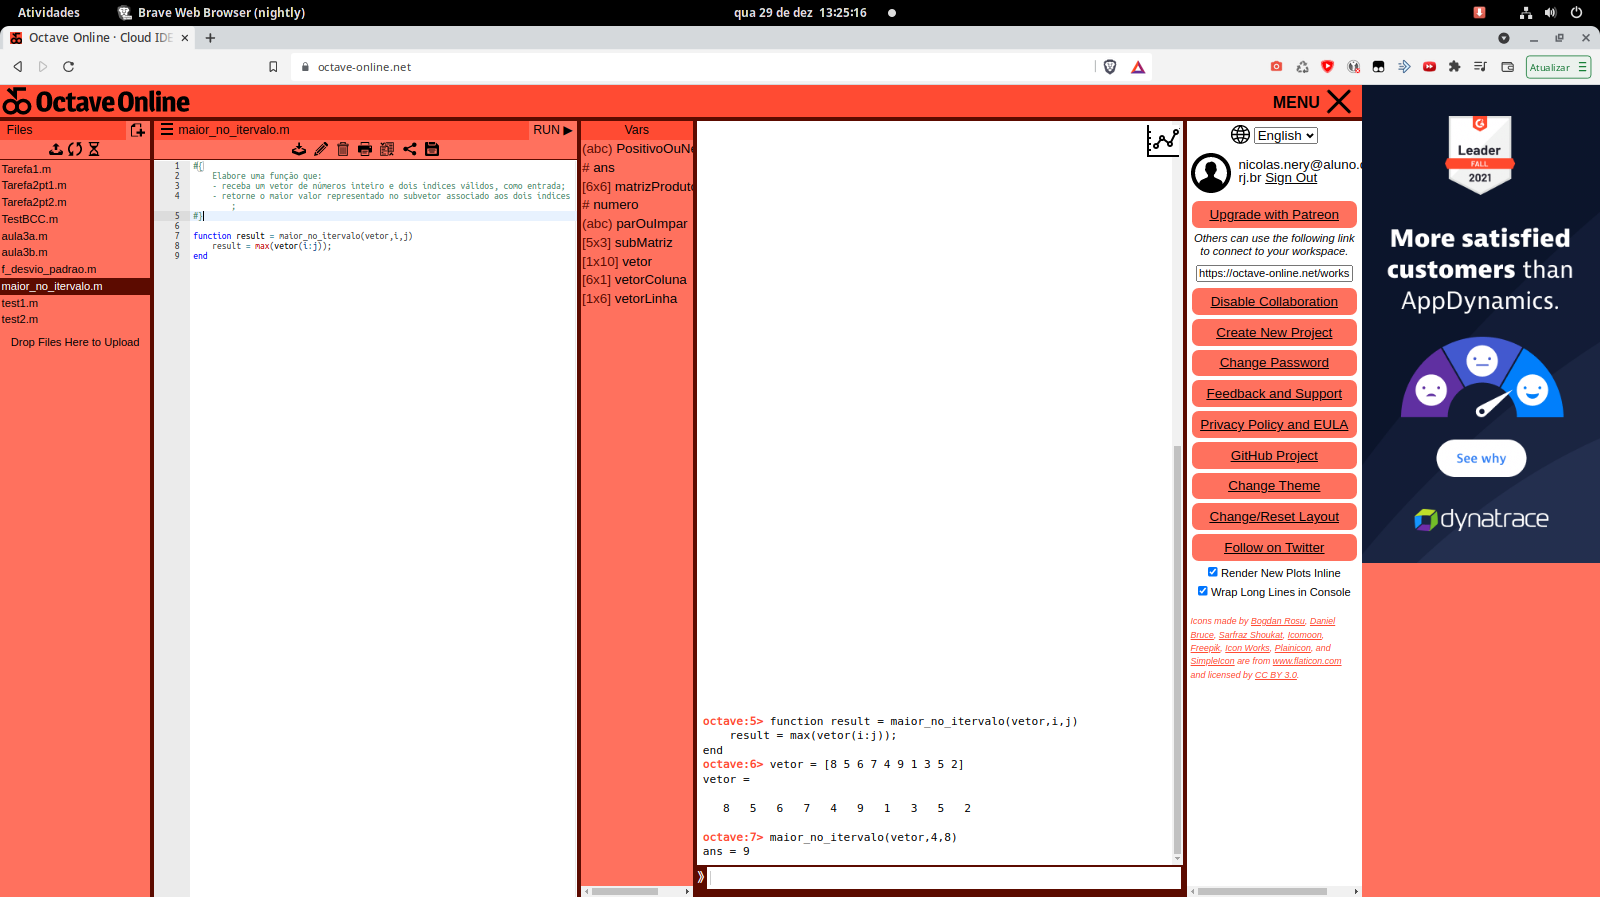
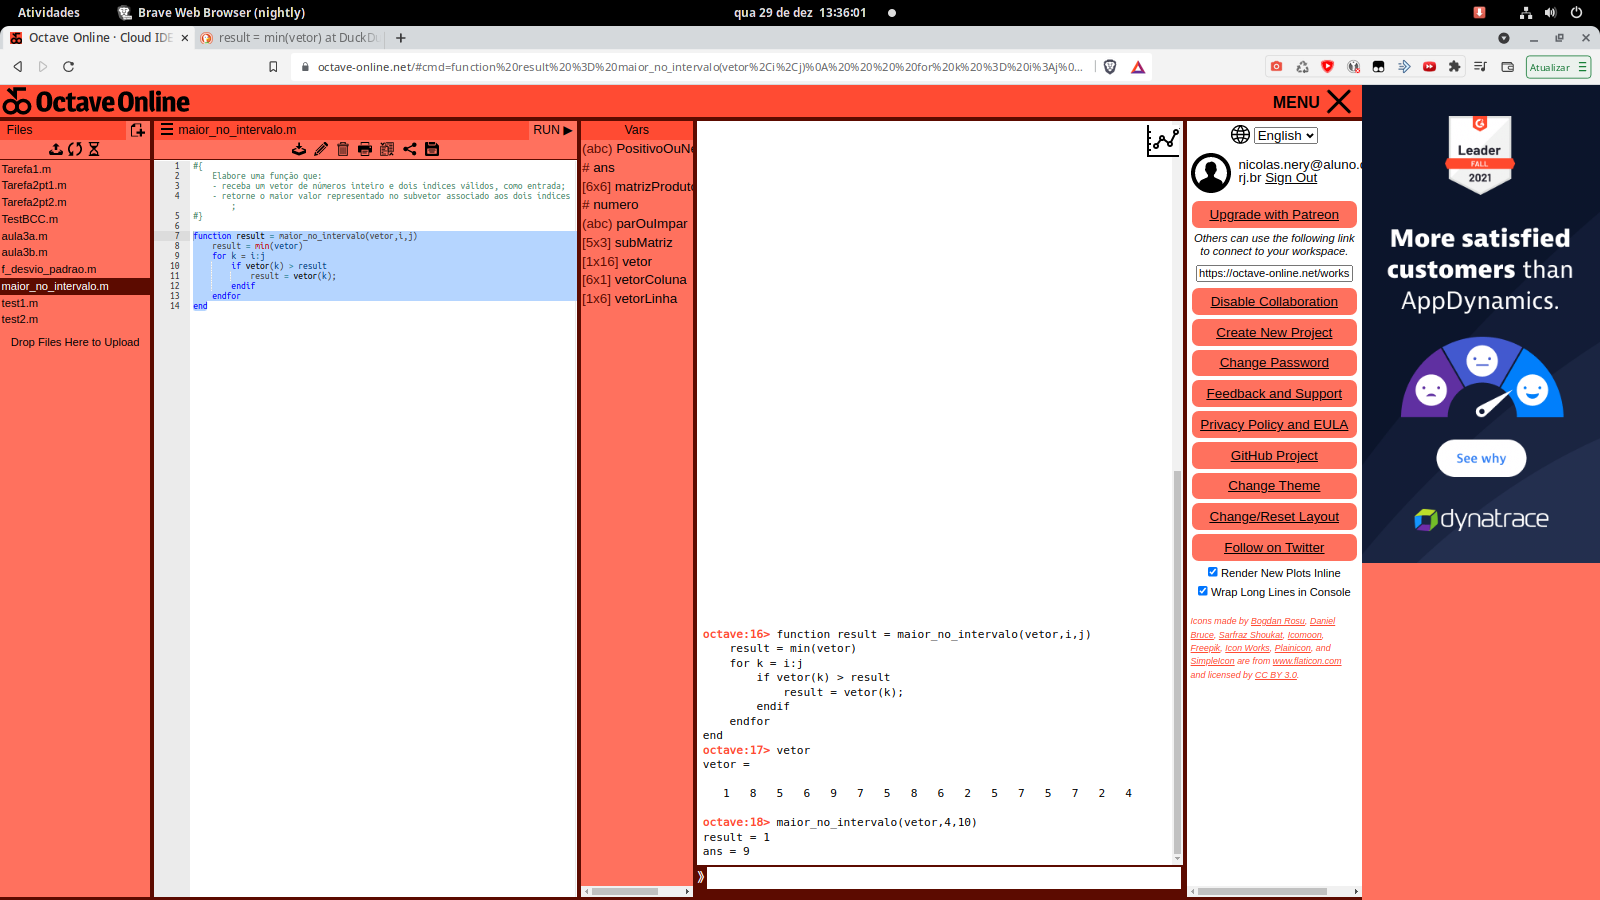
Prova

diff --git a/prova/test3.m b/prova/test3.m
@@ -1,0 +1,23 @@
+#{
+Elabore um script que:
+- limpe a tela
+-Leia coeficientes de uma equação do segundo grau: a , b e c.
+-calcule o valor delta da equação
+-motres uma das sequintes mensagens 'não existe raiz', ou 'raiz única' ou 'raizes distintas'    
+#}
+clc;
+a = input("Digite o valor de a: ");
+b = input("Digite o valor de b: ");
+c = input("Digite o valor de c: ");
+
+delta = (b*b) - (4*a*c);
+
+if(delta < 0) 
+    printf ("Não existe raiz\n");
+else
+    if(delta == 0) 
+        printf ("Raizes distintas\n");
+    else
+        printf ("Raiz única\n"); 
+    endif
+endif

diff --git a/prova/maior_no_intervalo.m b/prova/maior_no_intervalo.m
@@ -5,5 +5,14 @@
 #}
 
 function result = maior_no_intervalo(vetor,i,j)
+    for k = i:j
+        if vetor(k) > result
+            result = vetor(k);
+        endif
+    endfor
+end
+
+
+function result = maior_no_intervalo(vetor,i,j)
     result = max(vetor(i:j));
 end
